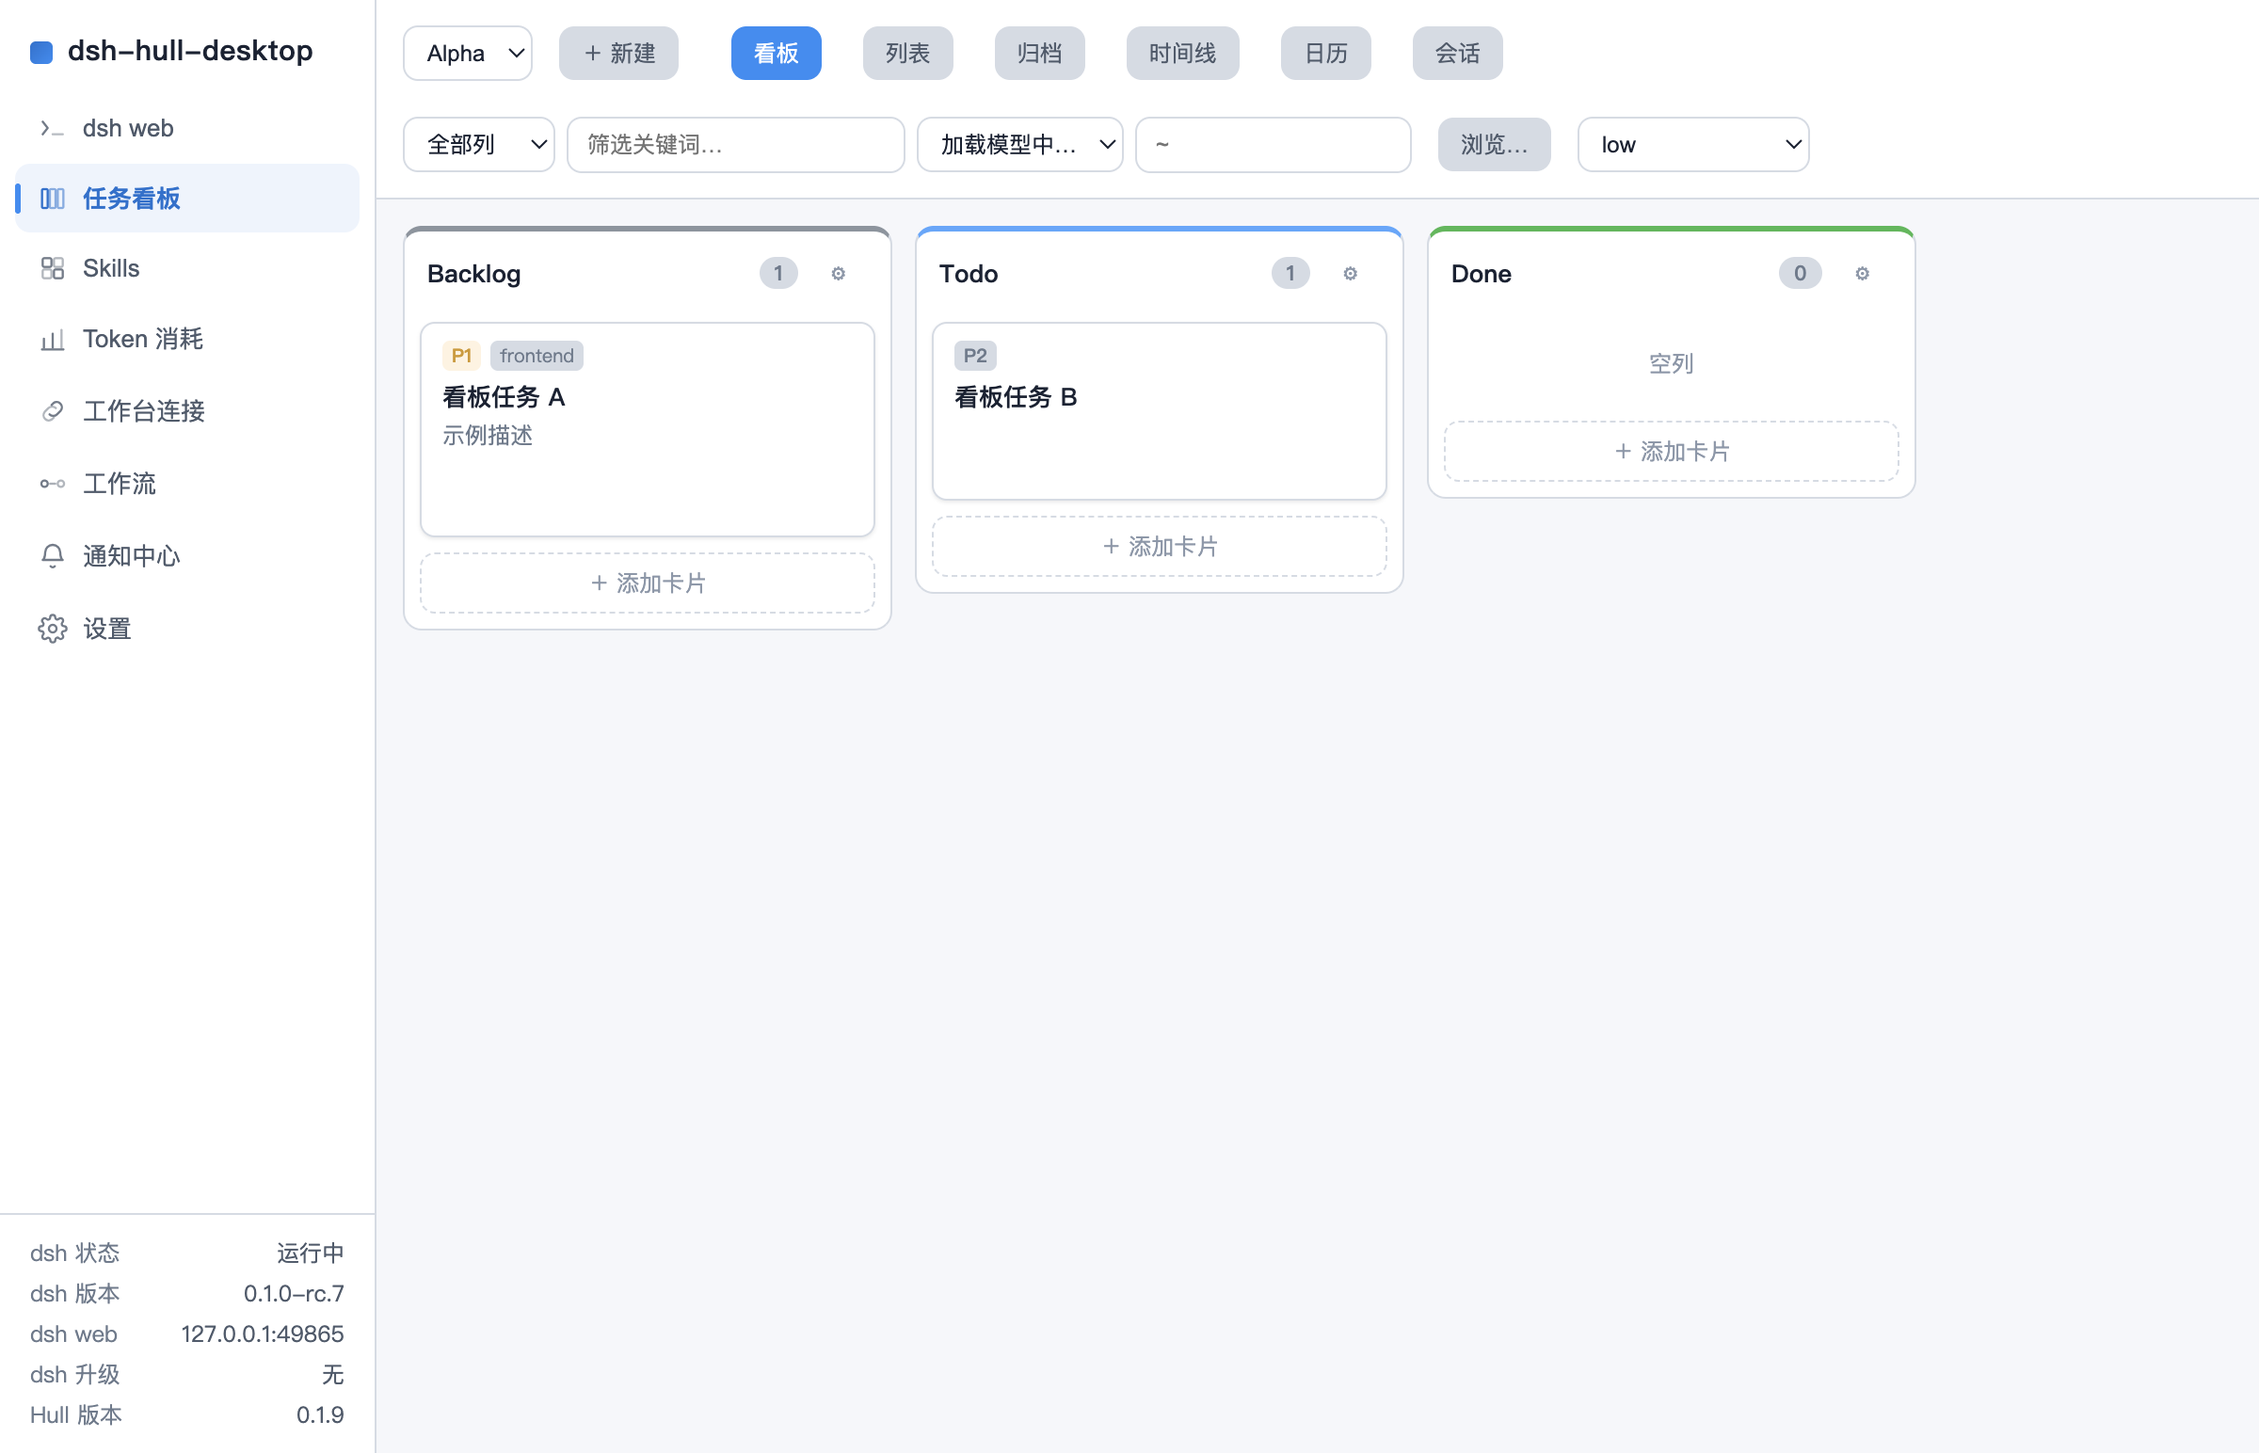
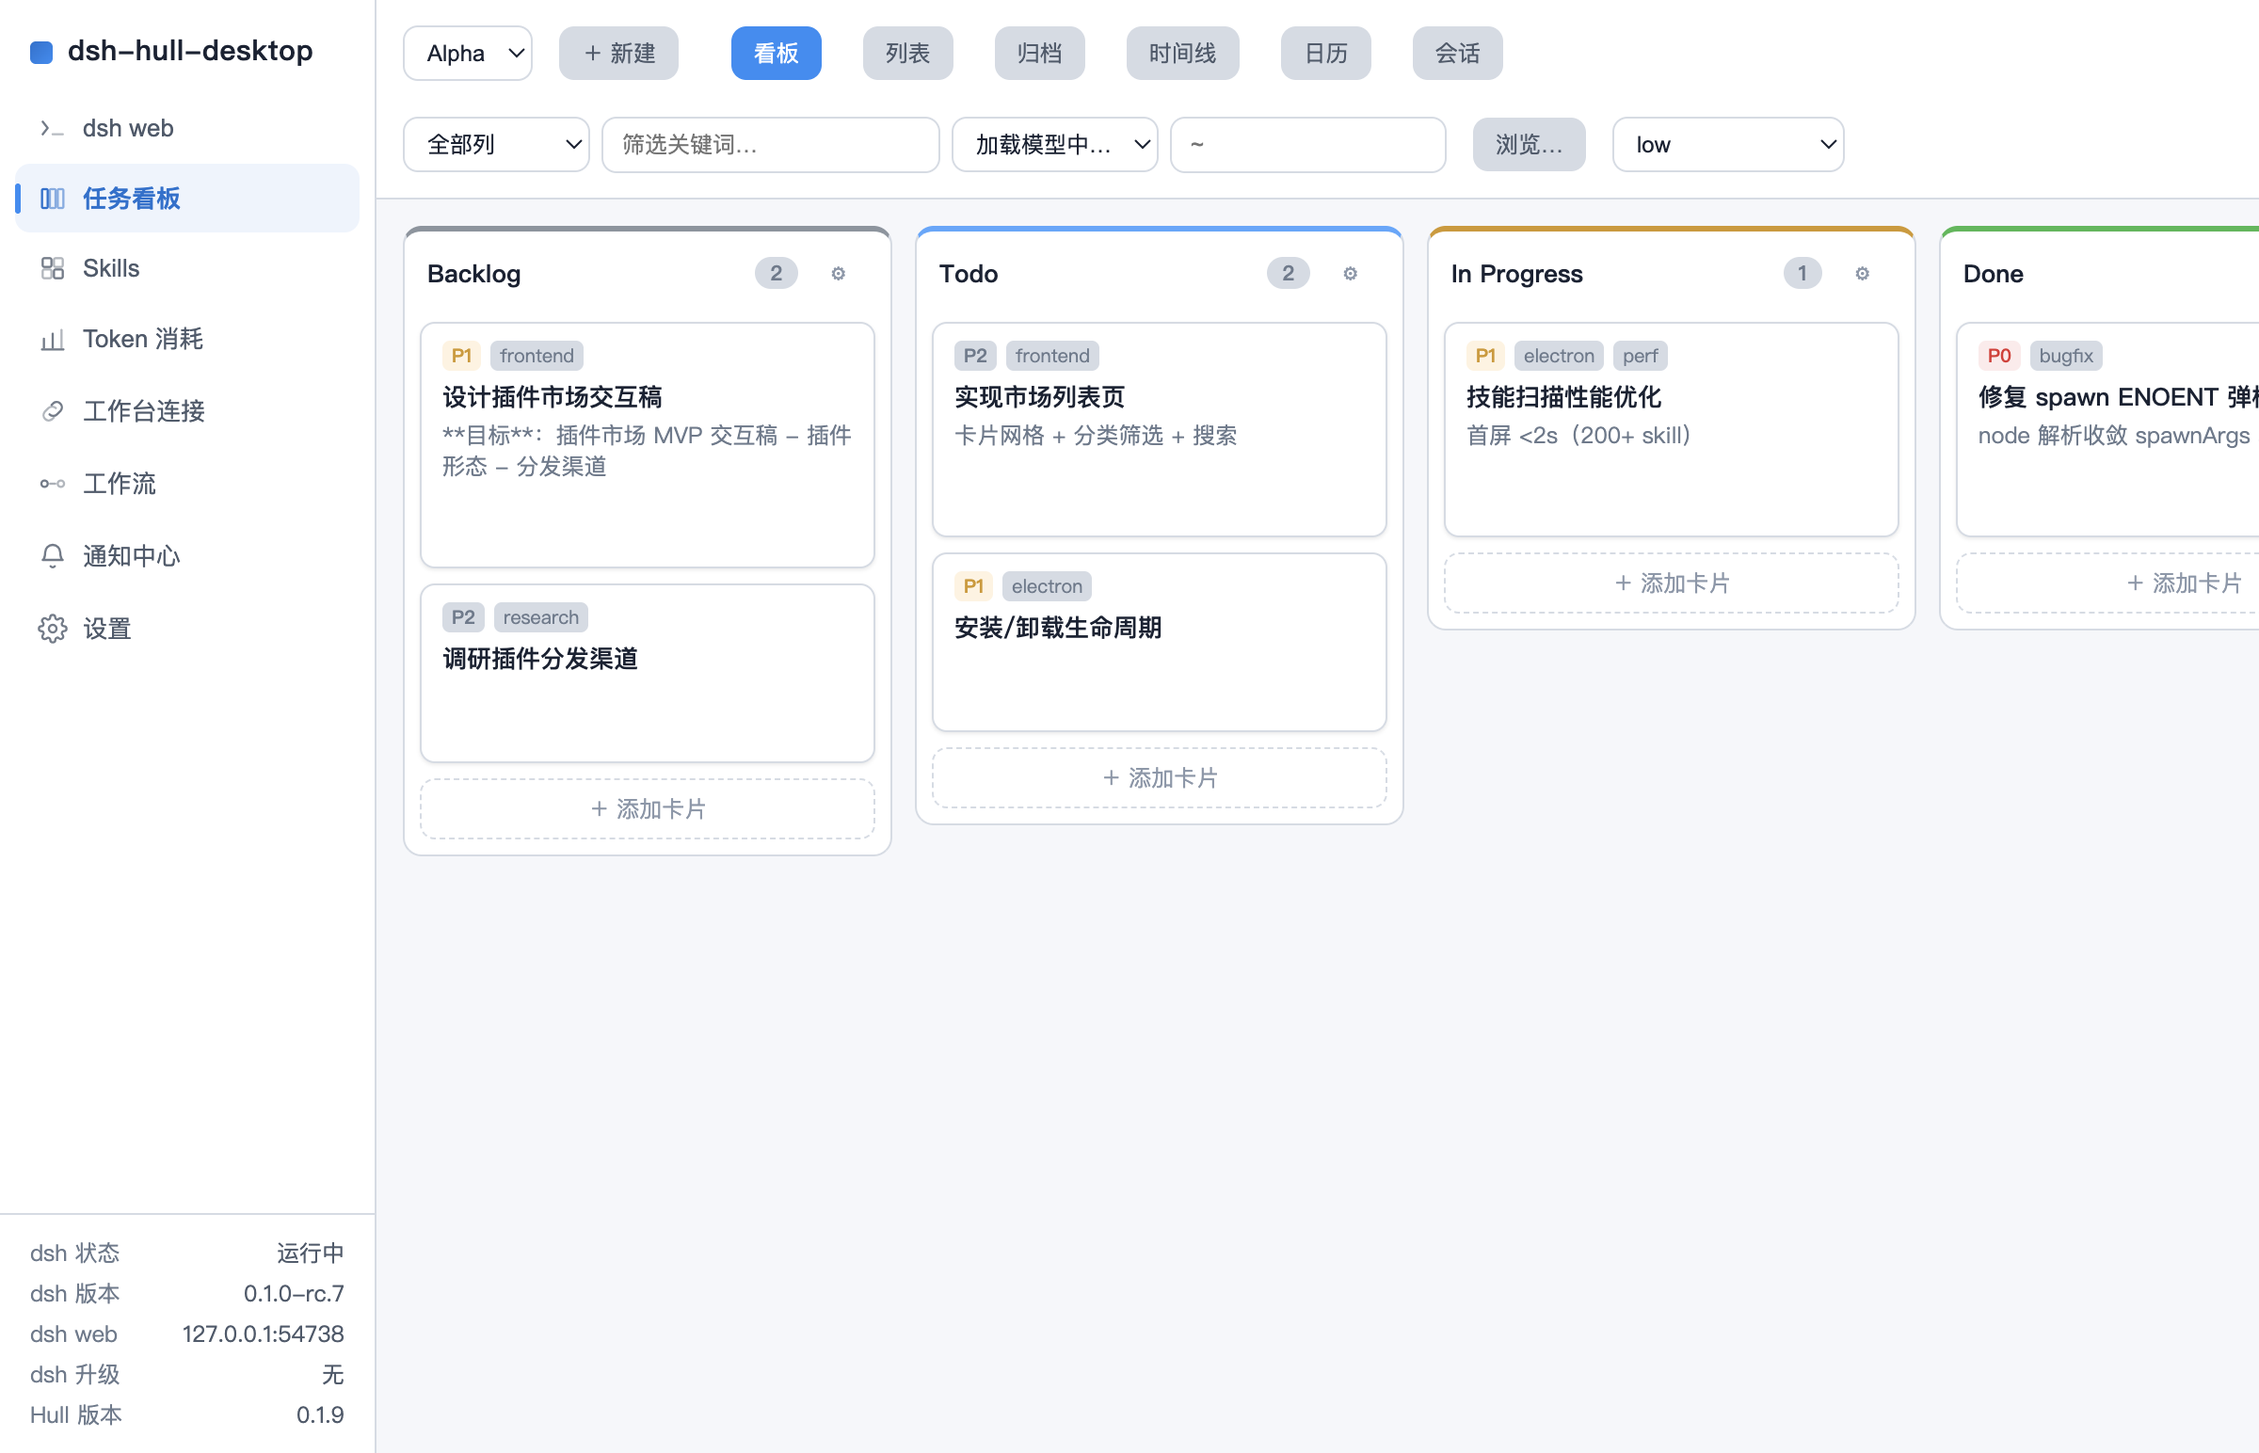
docs(readme): expand screenshots (calendar/detail/dsh-web) + jsDelivr CDN refs
裂图根因：README 图片经 raw/camo 代理，部分网络不可达——图片引用换 jsDelivr CDN；新增看板日历/任务详情截图与真实 dsh web 空态截图（capture spec 支持 CAPTURE_REAL_DSH 真实 userData 模式，官方 UI 走 webContents 自身 capturePage 绕开 WebContentsView 不合成限制）

diff --git a/tests/e2e/capture-screenshots.spec.ts b/tests/e2e/capture-screenshots.spec.ts
@@ -1,7 +1,11 @@
 /**
  * README 截图采集（手动触发，不进常规 e2e 套件）：
  *   CAPTURE_SCREENSHOTS=1 npx playwright test tests/e2e/capture-screenshots.spec.ts
- * 产出 docs/screenshots/{official,board,settings}.png（主窗口 capturePage，含 WebContentsView 合成）。
+ *   CAPTURE_REAL_DSH=1     ← 追加真实 dsh web 截图（用真实 userData，含真实会话数据，勿公开敏感内容）
+ * 产出 docs/screenshots/*.png。
+ *
+ * 注意：主窗口 capturePage 不合成 WebContentsView（官方 UI 独立 webContents）——
+ * dsh web 截图走「官方 webContents 自身 capturePage」路径，产物为纯官方 UI（无壳 nav）。
  */
 import { test, expect } from '@playwright/test';
 import { writeFileSync, mkdirSync } from 'node:fs';
@@ -12,6 +16,9 @@ import {
   seedSettings,
   launchApp,
   waitForReady,
+  waitForMainWindow,
+  mainWindowUrl,
+  shellPage,
   PROJECT_ROOT,
 } from './helpers';
 
@@ -19,6 +26,20 @@ function seedBoard(userData: string): void {
   const kanbanDir = join(userData, 'kanban');
   mkdirSync(kanbanDir, { recursive: true });
   const now = new Date().toISOString();
+  const day = (offset: number): string => {
+    const d = new Date();
+    d.setDate(d.getDate() + offset);
+    return d.toISOString().slice(0, 10);
+  };
+  const base = {
+    parentId: null, executionMode: 'manual', executionStatus: 'idle', currentExecutionId: null,
+    acceptanceCriteria: null, agentSpec: { provider: 'dsh', agent: null, model: null, subagentPolicy: 'auto' },
+    dependencies: [], assignee: null, blockedFromColumnId: null, archivedAt: null, archivedFromColumnId: null,
+    createdAt: now, updatedAt: now, timeline: [],
+  };
+  const task = (id: string, columnId: string, title: string, extra: Record<string, unknown> = {}) => ({
+    ...base, id, columnId, title, order: 0, ...extra,
+  });
   const data = {
     version: 1,
     boards: [
@@ -31,85 +52,121 @@ function seedBoard(userData: string): void {
         columns: [
           { id: 'c_backlog', type: 'backlog', name: 'Backlog', order: 0, color: '#8b949e', hidden: false },
           { id: 'c_todo', type: 'todo', name: 'Todo', order: 1, color: '#58a6ff', hidden: false },
-          { id: 'c_done', type: 'done', name: 'Done', order: 2, color: '#3fb950', hidden: false },
+          { id: 'c_doing', type: 'doing', name: 'In Progress', order: 2, color: '#d29922', hidden: false },
+          { id: 'c_done', type: 'done', name: 'Done', order: 3, color: '#3fb950', hidden: false },
         ],
         tasks: [
-          {
-            id: 't_1', parentId: null, columnId: 'c_backlog', title: '看板任务 A', executionMode: 'manual',
-            executionStatus: 'idle', currentExecutionId: null, acceptanceCriteria: null,
-            agentSpec: { provider: 'dsh', agent: null, model: null, subagentPolicy: 'auto' },
-            dependencies: [], description: '示例描述', labels: ['frontend'], priority: 'P1', assignee: null,
-            dueDate: null, order: 0, blockedFromColumnId: null, archivedAt: null, archivedFromColumnId: null,
-            createdAt: now, updatedAt: now, timeline: [],
-          },
-          {
-            id: 't_2', parentId: null, columnId: 'c_todo', title: '看板任务 B', executionMode: 'manual',
-            executionStatus: 'idle', currentExecutionId: null, acceptanceCriteria: null,
-            agentSpec: { provider: 'dsh', agent: null, model: null, subagentPolicy: 'auto' },
-            dependencies: [], description: null, labels: [], priority: 'P2', assignee: null,
-            dueDate: null, order: 0, blockedFromColumnId: null, archivedAt: null, archivedFromColumnId: null,
-            createdAt: now, updatedAt: now, timeline: [],
-          },
+          task('t_1', 'c_backlog', '设计插件市场交互稿', { description: '**目标**：插件市场 MVP 交互稿\n\n- 插件形态\n- 分发渠道', labels: ['frontend'], priority: 'P1' }),
+          task('t_2', 'c_backlog', '调研插件分发渠道', { description: null, labels: ['research'], priority: 'P2' }),
+          task('t_3', 'c_todo', '实现市场列表页', { description: '卡片网格 + 分类筛选 + 搜索', labels: ['frontend'], priority: 'P2', startDate: day(-2), dueDate: day(5) }),
+          task('t_4', 'c_todo', '安装/卸载生命周期', { description: null, labels: ['electron'], priority: 'P1', startDate: day(0), dueDate: day(7) }),
+          task('t_5', 'c_doing', '技能扫描性能优化', { description: '首屏 <2s（200+ skill）', labels: ['electron', 'perf'], priority: 'P1', startDate: day(-3), dueDate: day(2) }),
+          task('t_6', 'c_done', '修复 spawn ENOENT 弹框', { description: 'node 解析收敛 spawnArgs 单一修改点', labels: ['bugfix'], priority: 'P0', startDate: day(-6), dueDate: day(-1) }),
         ],
-      },
-      {
-        id: 'b_beta',
-        name: 'Beta',
-        order: 1,
-        createdAt: now,
-        updatedAt: now,
-        columns: [
-          { id: 'c_backlog', type: 'backlog', name: 'Backlog', order: 0, color: '#8b949e', hidden: false },
-          { id: 'c_todo', type: 'todo', name: 'Todo', order: 1, color: '#58a6ff', hidden: false },
-        ],
-        tasks: [],
       },
     ],
   };
   writeFileSync(join(kanbanDir, 'boards.json'), JSON.stringify(data, null, 2));
 }
 
-test.skip(!process.env.CAPTURE_SCREENSHOTS, '截图采集仅 CAPTURE_SCREENSHOTS=1 时运行');
+function captureWindow(app: import('@playwright/test').ElectronApplication): Promise<Buffer> {
+  return app
+    .evaluate(({ BrowserWindow }) =>
+      (async () => {
+        const win = BrowserWindow.getAllWindows()[0];
+        const img = await win.webContents.capturePage();
+        return img.toPNG().toString('base64');
+      })()
+    )
+    .then((b64) => Buffer.from(b64, 'base64'));
+}
 
-test('capture README screenshots', async () => {
-  test.setTimeout(120_000);
-  const tmp = makeTempUserData();
-  seedFakeDsh(tmp.dir);
-  seedSettings(tmp.dir);
-  seedBoard(tmp.dir);
-  const app = await launchApp({ userData: tmp.dir, fakeDshMode: 'ready' });
-  try {
-    const shell = await waitForReady(app, 30_000);
-    await expect(shell.locator('#nav')).toBeVisible();
+/** 官方 UI webContents 自身截图（绕开主窗口 capturePage 不合成 WebContentsView 的限制） */
+function captureOfficialPage(app: import('@playwright/test').ElectronApplication): Promise<Buffer> {
+  return app
+    .evaluate(({ webContents }) =>
+      (async () => {
+        const wc = webContents.getAllWebContents().find((w) => w.getURL().startsWith('http://127.0.0.1:'));
+        if (!wc) return '';
+        const img = await wc.capturePage();
+        return img.toPNG().toString('base64');
+      })()
+    )
+    .then((b64) => {
+      if (!b64) throw new Error('官方 UI webContents 未找到');
+      return Buffer.from(b64, 'base64');
+    });
+}
 
-    const capture = (): Promise<Buffer> =>
-      app.evaluate(({ BrowserWindow }) =>
-        (async () => {
-          const win = BrowserWindow.getAllWindows()[0];
-          const img = await win.webContents.capturePage();
-          return img.toPNG().toString('base64');
-        })()
-      ).then((b64) => Buffer.from(b64, 'base64'));
+const REAL_USER_DATA = join(process.env.HOME ?? '', 'Library', 'Application Support', 'dsh-hull-desktop');
 
-    const outDir = join(PROJECT_ROOT, 'docs', 'screenshots');
-    mkdirSync(outDir, { recursive: true });
+test.describe('README 截图采集', () => {
+  test.skip(!process.env.CAPTURE_SCREENSHOTS, '仅 CAPTURE_SCREENSHOTS=1 时运行');
 
-    // Skills 检查器
-    await shell.locator('#nav-skills').click();
-    await shell.waitForTimeout(1500);
-    writeFileSync(join(outDir, 'skills.png'), await capture());
+  test('壳内视图截图（种子假数据）', async () => {
+    test.setTimeout(120_000);
+    const tmp = makeTempUserData();
+    seedFakeDsh(tmp.dir);
+    seedSettings(tmp.dir);
+    seedBoard(tmp.dir);
+    const app = await launchApp({ userData: tmp.dir, fakeDshMode: 'ready' });
+    try {
+      const shell = await waitForReady(app, 30_000);
+      await expect(shell.locator('#nav')).toBeVisible();
+      const outDir = join(PROJECT_ROOT, 'docs', 'screenshots');
+      mkdirSync(outDir, { recursive: true });
 
-    // Token 消耗视图
-    await shell.locator('#nav-tokens').click();
-    await shell.waitForTimeout(1200);
-    writeFileSync(join(outDir, 'tokens.png'), await capture());
+      // 看板
+      await shell.locator('#nav-board').click();
+      await expect(shell.locator('#board-root .kb-card')).toHaveCount(6);
+      await shell.waitForTimeout(500);
+      writeFileSync(join(outDir, 'board.png'), await captureWindow(app));
 
-    // 设置
-    await shell.locator('#nav-settings').click();
-    await shell.waitForTimeout(800);
-    writeFileSync(join(outDir, 'settings.png'), await capture());
-  } finally {
-    await app.close();
-    tmp.cleanup();
-  }
+      // 看板日历视图（时间线 data-view=timeline 为任务事件流，非日历栅格——README 用 calendar）
+      await shell.locator('#board-root [data-view="calendar"]').click();
+      await shell.waitForTimeout(800);
+      writeFileSync(join(outDir, 'board-calendar.png'), await captureWindow(app));
+      await shell.locator('#board-root [data-view="board"]').click();
+
+      // 任务详情弹框（EasyMDE 编辑器）
+      await shell.locator('#board-root .kb-card', { hasText: '技能扫描性能优化' }).click();
+      await shell.locator('.EasyMDEContainer .CodeMirror').first().waitFor({ state: 'visible', timeout: 10_000 });
+      await shell.waitForTimeout(500);
+      writeFileSync(join(outDir, 'board-detail.png'), await captureWindow(app));
+      await shell.keyboard.press('Escape');
+      await shell.waitForTimeout(400);
+
+      // 设置
+      await shell.locator('#nav-settings').click();
+      await shell.waitForTimeout(800);
+      writeFileSync(join(outDir, 'settings.png'), await captureWindow(app));
+    } finally {
+      await app.close();
+      tmp.cleanup();
+    }
+  });
+
+  test('dsh web 官方 UI 截图（真实 userData）', async () => {
+    test.skip(!process.env.CAPTURE_REAL_DSH, '仅 CAPTURE_REAL_DSH=1 时运行（用真实 userData）');
+    test.setTimeout(120_000);
+    const app = await launchApp({ userData: REAL_USER_DATA });
+    try {
+      // 真实 dsh web 根路径返回完整 HTML（非 fake 的 body=ok）——只等官方 view URL 就绪
+      const deadline = Date.now() + 60_000;
+      while (Date.now() < deadline) {
+        if ((await mainWindowUrl(app)).startsWith('http://127.0.0.1:')) break;
+        await new Promise((r) => setTimeout(r, 300));
+      }
+      if (!(await mainWindowUrl(app)).startsWith('http://127.0.0.1:')) {
+        throw new Error('真实 dsh web 未在 60s 内就绪');
+      }
+      await waitForMainWindow(app, 30_000);
+      await new Promise((r) => setTimeout(r, 4000)); // 等官方 UI 渲染稳定
+      const outDir = join(PROJECT_ROOT, 'docs', 'screenshots');
+      mkdirSync(outDir, { recursive: true });
+      writeFileSync(join(outDir, 'dsh-web.png'), await captureOfficialPage(app));
+    } finally {
+      await app.close();
+    }
+  });
 });

diff --git a/README.en.md b/README.en.md
@@ -14,11 +14,17 @@ Built for developers, Hull adds its own layer on top: a task kanban for planning
 
 ## Screenshots
 
-| Task Kanban | Settings & Upgrade |
+| Task Kanban | Board Calendar |
 |:---:|:---:|
-| ![Task Kanban](docs/screenshots/board.png) | ![Settings & Upgrade](docs/screenshots/settings.png) |
+| ![Task Kanban](https://cdn.jsdelivr.net/gh/phper666/dsh-hull-desktop@main/docs/screenshots/board.png) | ![Board Calendar](https://cdn.jsdelivr.net/gh/phper666/dsh-hull-desktop@main/docs/screenshots/board-calendar.png) |
 
-> Screenshots are captured automatically in the e2e environment (seeded fake data, not real user data): `CAPTURE_SCREENSHOTS=1 npx playwright test tests/e2e/capture-screenshots.spec.ts`
+| Task Detail | Settings & Upgrade |
+|:---:|:---:|
+| ![Task Detail](https://cdn.jsdelivr.net/gh/phper666/dsh-hull-desktop@main/docs/screenshots/board-detail.png) | ![Settings & Upgrade](https://cdn.jsdelivr.net/gh/phper666/dsh-hull-desktop@main/docs/screenshots/settings.png) |
+
+<p align="center"><img src="https://cdn.jsdelivr.net/gh/phper666/dsh-hull-desktop@main/docs/screenshots/dsh-web.png" alt="dsh official web UI" width="640"><br><sub>dsh official web UI (rendered inside the Hull shell, zero injection)</sub></p>
+
+> Screenshots are captured automatically in the e2e environment (kanban/detail/settings use seeded fake data; dsh web is the real official UI in its empty landing state): `CAPTURE_SCREENSHOTS=1 CAPTURE_REAL_DSH=1 npx playwright test tests/e2e/capture-screenshots.spec.ts`. Images are referenced via the jsDelivr CDN (raw.githubusercontent is unreachable from some networks).
 
 ## Design principles
 

diff --git a/README.md b/README.md
@@ -14,11 +14,17 @@ Hull 面向程序员，在官方之上叠加自己的层：任务看板、原生
 
 ## 截图
 
-| 任务看板 | 设置与升级 |
+| 任务看板 | 看板日历 |
 |:---:|:---:|
-| ![任务看板](docs/screenshots/board.png) | ![设置与升级](docs/screenshots/settings.png) |
+| ![任务看板](https://cdn.jsdelivr.net/gh/phper666/dsh-hull-desktop@main/docs/screenshots/board.png) | ![看板日历](https://cdn.jsdelivr.net/gh/phper666/dsh-hull-desktop@main/docs/screenshots/board-calendar.png) |
 
-> 截图由 e2e 环境自动采集（种子假数据，非真实用户数据）：`CAPTURE_SCREENSHOTS=1 npx playwright test tests/e2e/capture-screenshots.spec.ts`
+| 任务详情 | 设置与升级 |
+|:---:|:---:|
+| ![任务详情](https://cdn.jsdelivr.net/gh/phper666/dsh-hull-desktop@main/docs/screenshots/board-detail.png) | ![设置与升级](https://cdn.jsdelivr.net/gh/phper666/dsh-hull-desktop@main/docs/screenshots/settings.png) |
+
+<p align="center"><img src="https://cdn.jsdelivr.net/gh/phper666/dsh-hull-desktop@main/docs/screenshots/dsh-web.png" alt="dsh 官方 Web UI" width="640"><br><sub>dsh 官方 Web UI（Hull 壳内嵌渲染，零注入）</sub></p>
+
+> 截图由 e2e 环境自动采集（看板/详情/设置为种子假数据；dsh web 为真实官方 UI 空态首页）：`CAPTURE_SCREENSHOTS=1 CAPTURE_REAL_DSH=1 npx playwright test tests/e2e/capture-screenshots.spec.ts`。图片走 jsDelivr CDN 引用（raw.githubusercontent 部分网络环境不可达）。
 
 ## 设计原则
 
